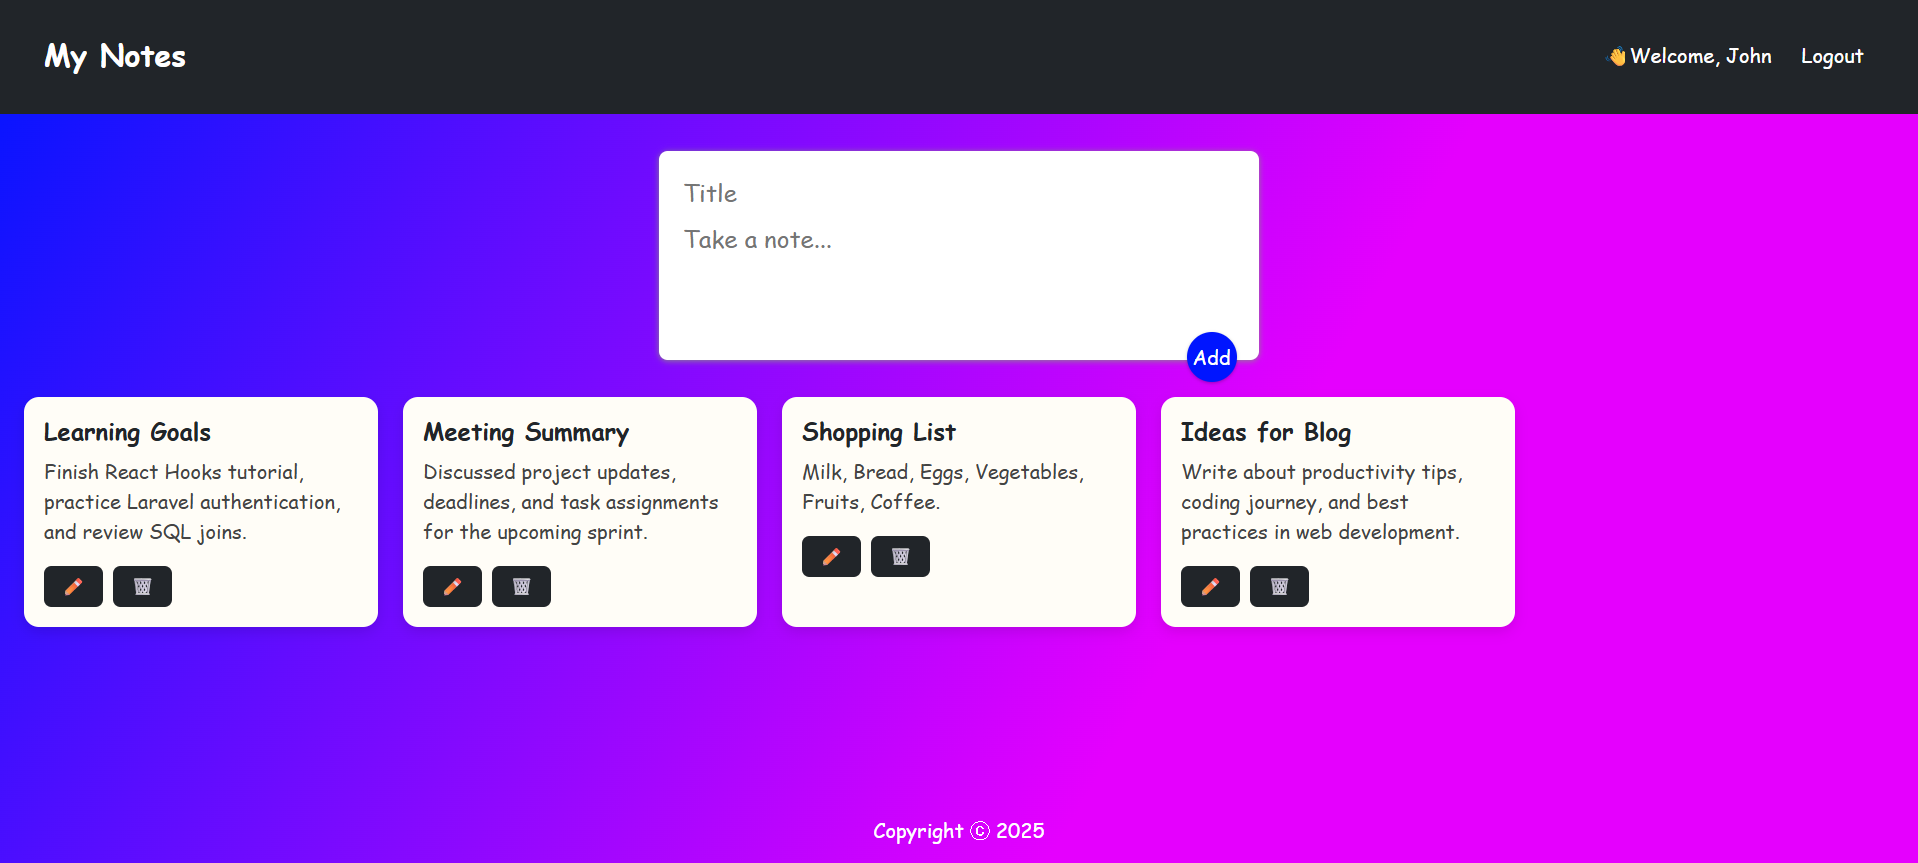
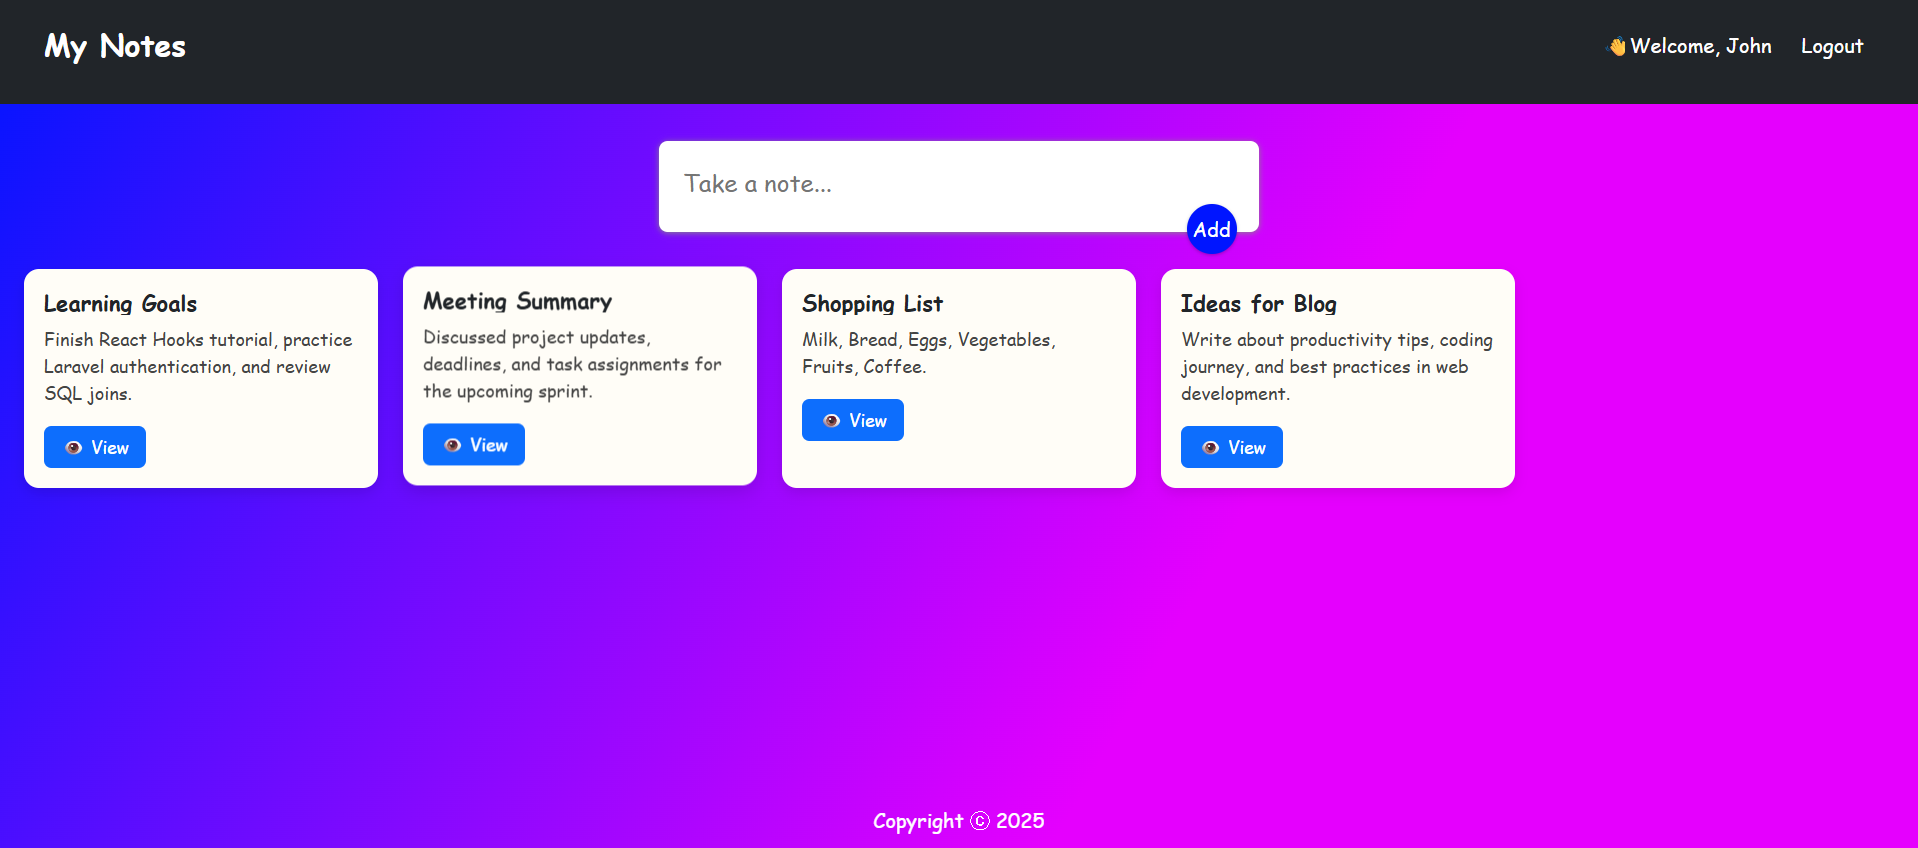
feat: implemented view note

diff --git a/resources/src/components/ViewNote.jsx b/resources/src/components/ViewNote.jsx
@@ -1,0 +1,101 @@
+import axios from "axios";
+import React, { useEffect, useState } from "react";
+import { useParams, Link } from "react-router-dom";
+import Header from "./Header";
+import Footer from "./Footer";
+
+const ViewNote = () => {
+    const { id } = useParams();
+    const [note, setNote] = useState(null);
+    const [notes, setNotes] = useState([]);
+    const [loading, setLoading] = useState(true);
+
+    useEffect(() => {
+        const fetchNotes = async () => {
+            try {
+                const response = await axios.get(
+                    `http://127.0.0.1:8000/api/notes/${id}`,
+                    {
+                        headers: {
+                            Authorization: `Bearer ${localStorage.getItem(
+                                "token"
+                            )}`,
+                        },
+                    }
+                );
+                console.log(response.data.data);
+                const noteData = response.data.data;
+                setNote(noteData);
+            } catch (error) {
+                console.error(
+                    "Error fetching note:",
+                    error.response?.data || error.message
+                );
+            } finally {
+                setLoading(false);
+            }
+        };
+        fetchNotes();
+    }, [id]);
+
+    // delete note
+    const handleDelete = async (id) => {
+        const confirmDelete = window.confirm(
+            "Are you sure you want to delete this note?"
+        );
+        if (!confirmDelete) return;
+
+        try {
+            await axios.delete(`http://127.0.0.1:8000/api/notes/${id}`, {
+                headers: {
+                    Authorization: `Bearer ${localStorage.getItem("token")}`,
+                },
+            });
+            setNotes(notes.filter((note) => note.id !== id)); // remove from state
+        } catch (error) {
+            console.error(
+                "Error deleting note:",
+                error.response?.data || error.message
+            );
+        }
+    };
+
+    if (loading)
+        return <p className="text-center text-white">Loading note...</p>;
+    if (!note) return <p className="text-center text-danger">Note not found</p>;
+
+    return (
+        <>
+            <Header />
+            <div className="container mt-5">
+                <div className="card p-4 shadow-lg">
+                    <h2>{note.title}</h2>
+                    <p>{note.content}</p>
+                    <small className="text-muted">
+                        Created at: {new Date(note.created_at).toLocaleString()}
+                    </small>
+                    <div className="mt-3">
+                        <Link to="/note" className="btn btn-primary btn-sm">
+                            ⬅ Back
+                        </Link>
+                        <Link
+                            to={`/editNote/${note.id}`}
+                            className="btn btn-sm btn-primary ms-2"
+                        >
+                            ✏ Update
+                        </Link>
+                        <button
+                            onClick={() => handleDelete(note.id)}
+                            className="btn btn-sm btn-primary ms-2"
+                        >
+                            🗑 Delete
+                        </button>
+                    </div>
+                </div>
+            </div>
+            <Footer />
+        </>
+    );
+};
+
+export default ViewNote;

diff --git a/resources/src/components/Note.jsx b/resources/src/components/Note.jsx
@@ -37,27 +37,7 @@ const Note = () => {
         fetchNotes();
     }, []);
 
-    // delete note
-    const handleDelete = async (id) => {
-        const confirmDelete = window.confirm(
-            "Are you sure you want to delete this note?"
-        );
-        if (!confirmDelete) return;
-
-        try {
-            await axios.delete(`http://127.0.0.1:8000/api/notes/${id}`, {
-                headers: {
-                    Authorization: `Bearer ${localStorage.getItem("token")}`,
-                },
-            });
-            setNotes(notes.filter((note) => note.id !== id)); // remove from state
-        } catch (error) {
-            console.error(
-                "Error deleting note:",
-                error.response?.data || error.message
-            );
-        }
-    };
+    
 
     // callback from CreateNote to add note instantly
     const handleNoteAdded = (newNote) => {
@@ -83,14 +63,11 @@ const Note = () => {
                             <p>{note.content}</p>
                             <div className="">
                                 <Link
-                                    to={`/editNote/${note.id}`}
-                                    className="btn btn-sm btn-dark"
+                                    to={`/viewNote/${note.id}`}
+                                    className="btn btn-sm btn-primary"
                                 >
-                                    ✏
+                                    👁 View
                                 </Link>
-                                <button onClick={() => handleDelete(note.id)} className="btn btn-sm btn-dark ms-2">
-                                    🗑 
-                                </button>
                             </div>
                         </div>
                     ))}

diff --git a/resources/src/components/UpdateNote.jsx b/resources/src/components/UpdateNote.jsx
@@ -101,13 +101,13 @@ const UpdateNote = () => {
                             </div>
                             <button
                                 type="submit"
-                                className="btn btn-sm btn-dark"
+                                className="btn btn-sm btn-primary"
                             >
                                 Update
                             </button>
                             <Link
                                 to={"/note"}
-                                className="btn btn-sm btn-dark ms-2"
+                                className="btn btn-sm btn-primary ms-2"
                             >
                                 Cancel
                             </Link>

diff --git a/resources/src/App.jsx b/resources/src/App.jsx
@@ -4,6 +4,7 @@ import Note from "./components/Note";
 import Register from "./components/Register";
 import Login from "./components/Login";
 import UpdateNote from "./components/UpdateNote";
+import ViewNote from "./components/ViewNote";
 
 const App = () => {
     return (
@@ -14,6 +15,7 @@ const App = () => {
                     <Route path="/register" element={<Register />} />
                     <Route path="/note" element={<Note />} />
                     <Route path="/" element={<Navigate to="/login" />} />
+                    <Route path="/viewNote/:id" element={<ViewNote />} />
                     <Route path="/editNote/:id" element={<UpdateNote />} />
                 </Routes>
             </BrowserRouter>

diff --git a/resources/css/app.css b/resources/css/app.css
@@ -98,15 +98,25 @@ form.create-note button {
 }
 
 .note-card h1 {
-    font-size: 1.2rem;
-    margin-bottom: 8px;
-    font-weight: bold;
+  font-size: 1.1rem;
+  font-weight: bold;
+  margin-bottom: 0.5rem;
+  white-space: nowrap;        /* Force single line */
+  overflow: hidden;           /* Hide overflow */
+  text-overflow: ellipsis;    /* Add "..." */
+  max-width: 100%;            /* Prevent overflow */
 }
 
 .note-card p {
-    font-size: 1rem;
-    color: #444;
+  font-size: 0.9rem;
+  color: #444;
+  overflow: hidden;
+  text-overflow: ellipsis;
+  display: -webkit-box;
+  -webkit-line-clamp: 3;     /* Show only 3 lines */
+  -webkit-box-orient: vertical;
 }
+
 
 .note-actions {
     display: flex;
